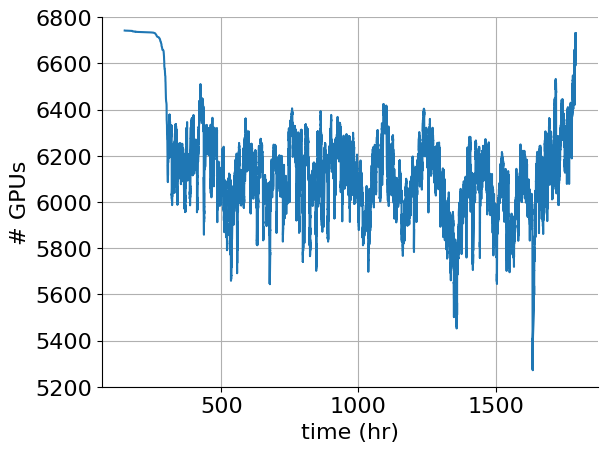
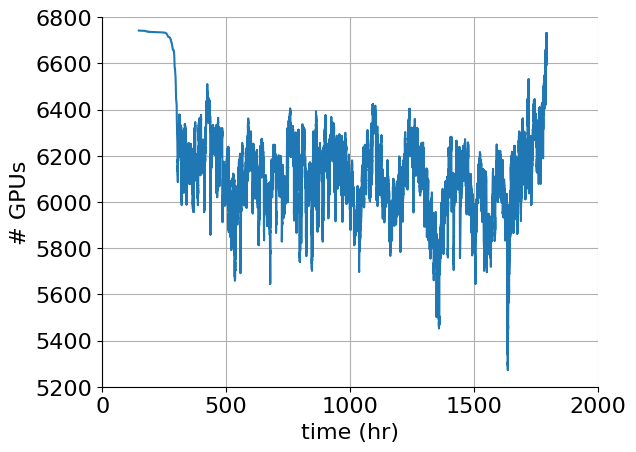
update plots + raise issue

diff --git a/my_analysis/src/plot.py b/my_analysis/src/plot.py
@@ -10,7 +10,7 @@ def save(file, format=None):
     plt.savefig(path, format=format, bbox_inches='tight')
     plt.close()
 
-def make_plot_nice(ax, xlabel, ylabel, ymin, ymax, fontsize=16, legendcol=1):
+def make_plot_nice(ax, xlabel, ylabel, ymin, ymax, xmin=None, xmax=None, fontsize=16, legendcol=None):
     if legendcol is not None:
         ax.legend(fontsize=fontsize, ncol=legendcol, frameon=False)
     ax.spines["top"].set_visible(False)
@@ -20,6 +20,8 @@ def make_plot_nice(ax, xlabel, ylabel, ymin, ymax, fontsize=16, legendcol=1):
     ax.set_xlabel(xlabel, fontsize=fontsize)
     ax.set_ylabel(ylabel, fontsize=fontsize)
     ax.set_ylim([ymin, ymax])
+    if xmin is not None and xmax is not None:
+        ax.set_xlim([xmin, xmax])
     ax.grid()
 
 def plot_availability(availability):
@@ -30,5 +32,5 @@ def plot_availability(availability):
         x.append(t / 3600)
         y.append(a)
     ax.plot(x, y)
-    make_plot_nice(ax, 'time (hr)', '# GPUs', 5200, 6800, legendcol=None)
+    make_plot_nice(ax, 'time (hr)', '# GPUs', 5200, 6800, xmin=0, xmax=2000)
     save("availability.png")
